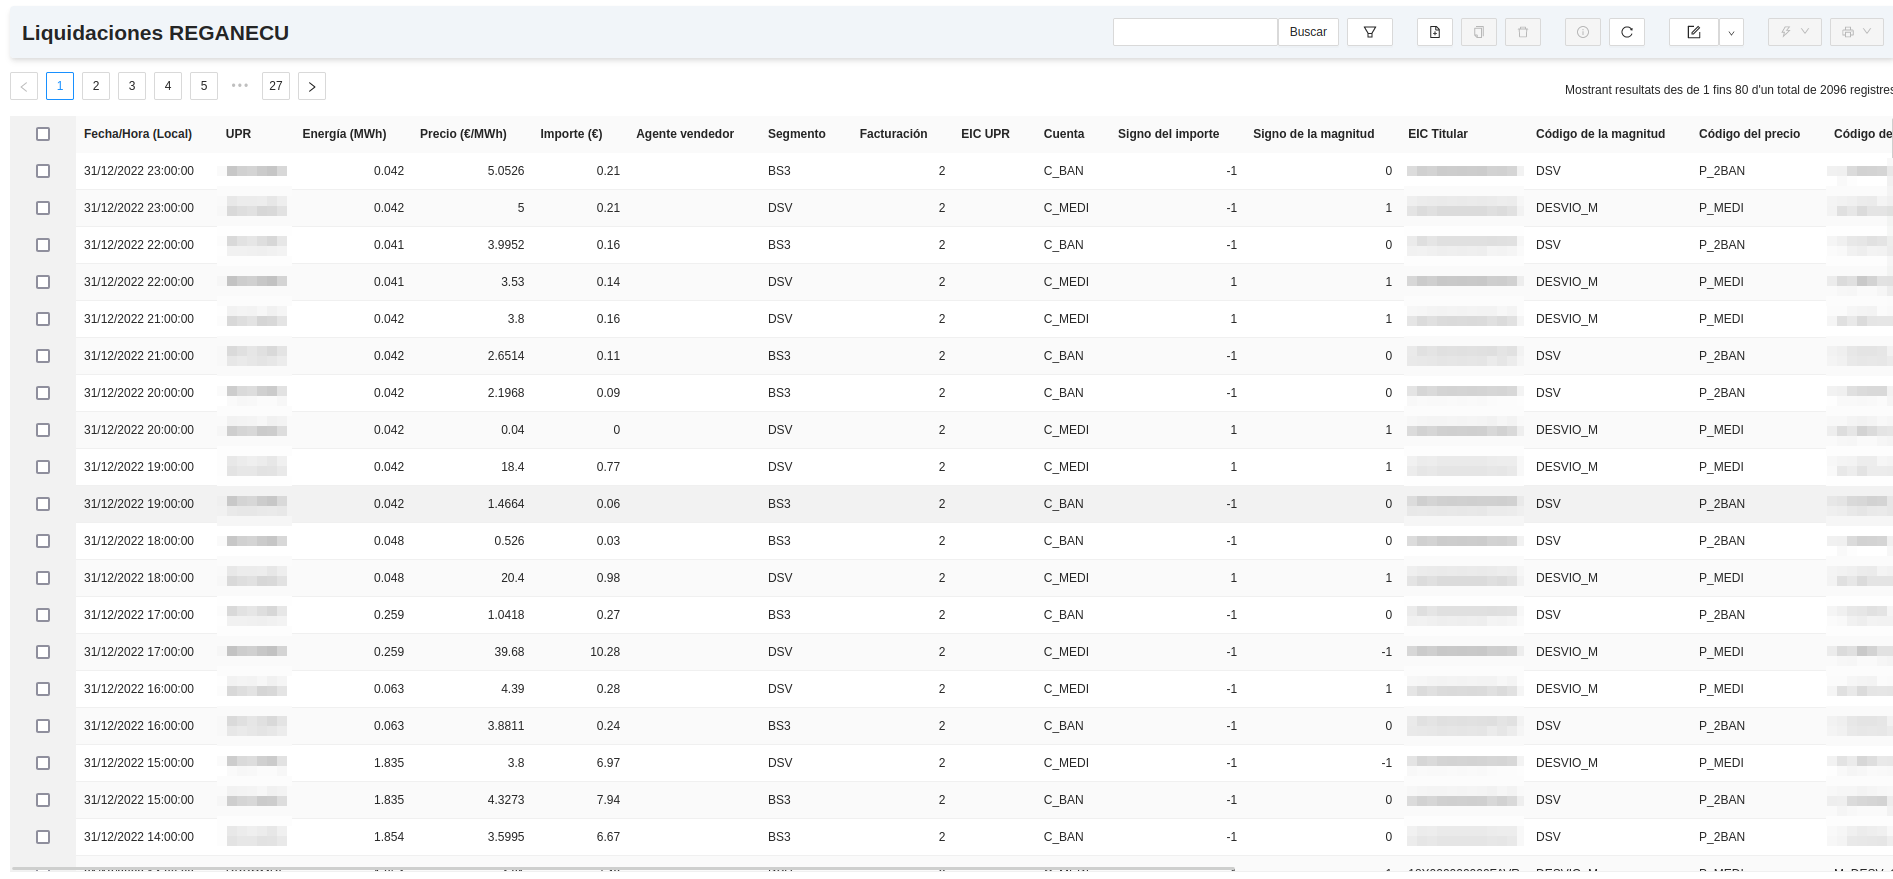
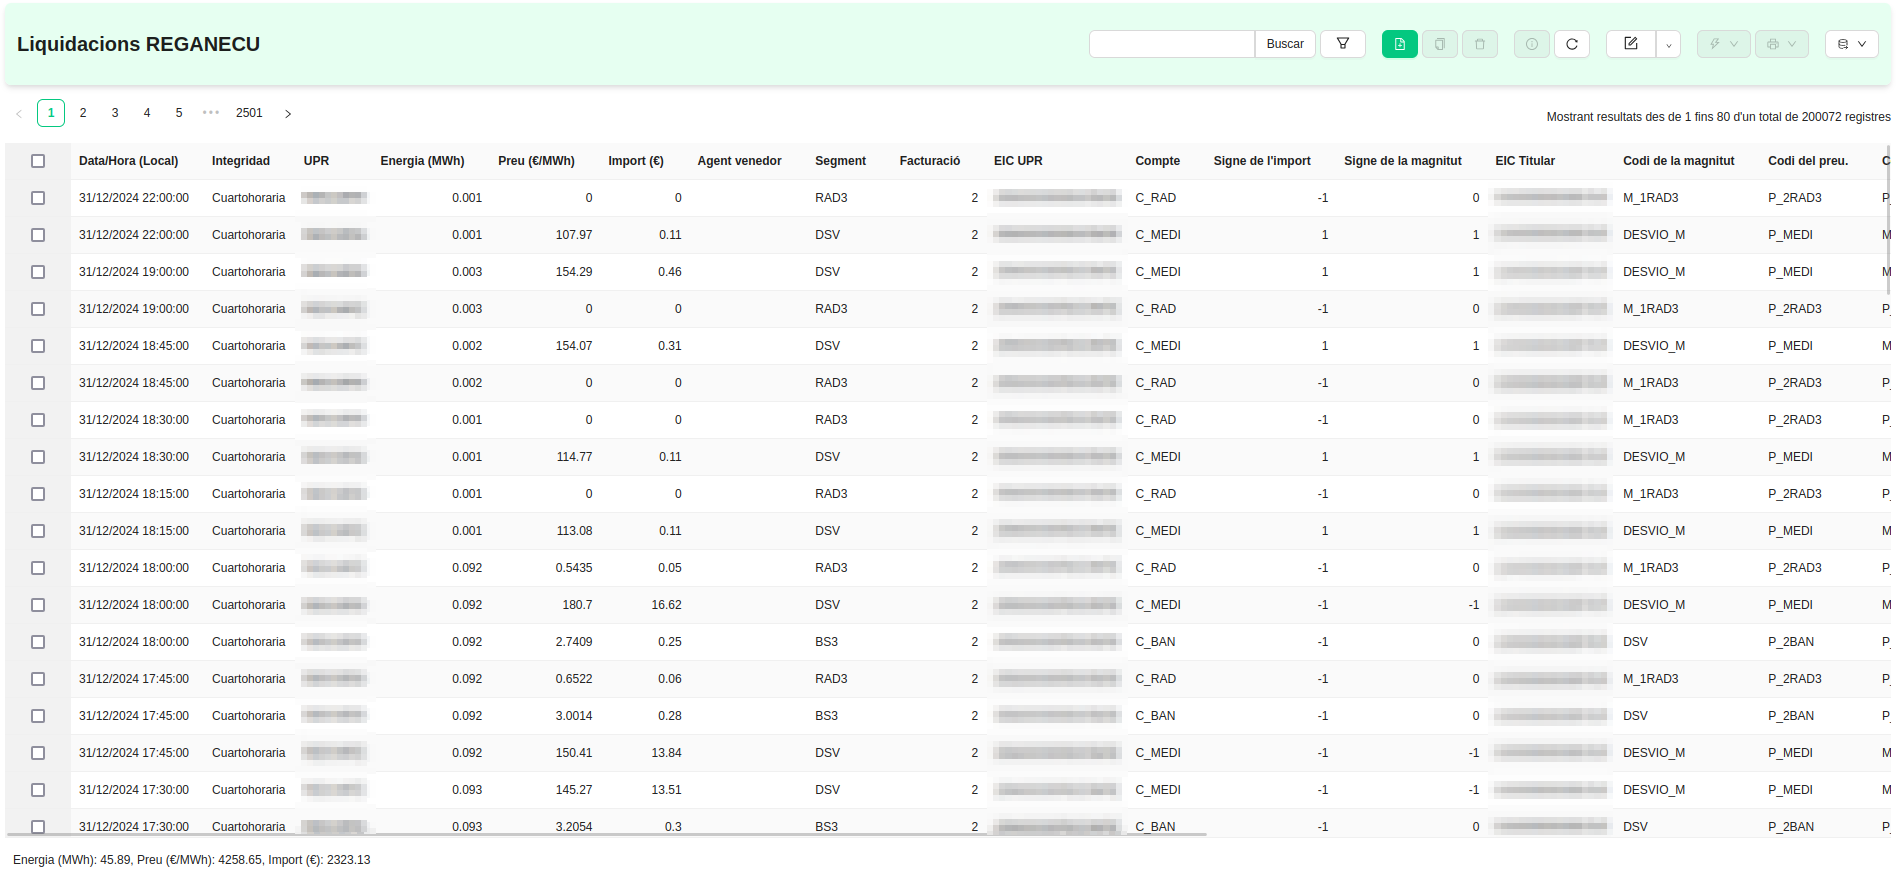
Extend CIL section

diff --git a/docs/representacion/cils.md b/docs/representacion/cils.md
@@ -45,7 +45,35 @@ publicada als fitxers `MHCIL`. Per entendre bé la funció dels desviaments cal 
 
 [ ![Llistat de desviaments](_static/cils/desvios_listado.png)](_static/cils/desvios_listado.png)
 
-#### REGANECU
+#### MCILQH
+* **Dades quart-horàries d'energia per CIL:** Llistat per a consultar les dades de generació dels CIL, publicades per l'Operador del Sistema
+mitjançant els fitxers `MCILQH`. Si s'importen fitxers `MCILQH` a l'ERP, els seus registres quart-horaris apareixen en aquest llistat, on es
+poden filtrar per dates, CIL i/o maduresa.
+
+[ ![Llistat de registres MCILQH](_static/cils/mcilqh_listado.png)](_static/cils/mcilqh_listado.png)
+
+A cada quart d'hora del llistat s'enregistra el CIL al qual pertany la mesura, l'hora (local i UTC), la maduresa i la versió del fitxer.
+Els fitxers `MCILQH` publiquen les mesures d'energia **Activa Exportada** (expressada en kWh), **Activa Importada** (expressada en kWh)
+i d'energia **Reactiva** dels quadrants 1, 2, 3 i 4 (expressades en kVArh).
+
+[ ![Formulari de registres MCILQH](_static/cils/mcilqh_formulario.png)](_static/cils/mcilqh_formulario.png)
+
+* **Importar fitxers MCILQH:** Assistent per a importar a l'ERP fitxers de mesures de generació `MCILQH` emesos per l'Operador del Sistema. Suporta
+fitxers individuals en format de fitxer pla o bé un fitxer comprimit en ZIP amb múltiples fitxers en format fitxer pla.
+
+[ ![Importació de fitxers MCILQH](_static/cils/mcilqh_importacion.png)](_static/cils/mcilqh_importacion.png)
+
+!!! Info "Nota"
+    L'Operador del Sistema va començar a publicar la generació als Representants amb fitxers MCILQH a partir de l'1 de desembre
+    de 2024, passant a imputar la generació i el desviament en format quart-horari enlloc de horari.
+
+* **Desviaments:** Llistat per a consultar quant s'ha desviat la previsió de generació de les instal·lacions de la seva generació real,
+publicada als fitxers `MCILQH`. Per entendre bé la funció dels desviaments cal consultar els apartats [Ofertes a Mercat de generació](../ofertas) i
+[Facturació](../facturacion).
+
+[ ![Llistat de desviaments](_static/cils/desvios_listado.png)](_static/cils/desvios_listado.png)
+
+#### REGANECU/REGANECUQH
 * **Liquidacions:** Llistat per a consultar les liquidacions de l'Operador del Sistema, publicades mitjançant els fitxers `REGANECU`. Si
 s'importen fitxers `REGANECU` a l'ERP, els seus registres apareixen en aquest llistat, on es poden filtrar per dates, Unitat de Programació,
 segment i/o maduresa
@@ -60,3 +88,8 @@ A cada línia de fitxer `REGANECU` importada es poden consultar tots els camps q
 fitxers individuals en format de fitxer pla o bé un fitxer comprimit en ZIP amb múltiples fitxers en format fitxer pla.
 
 [ ![Importació de fitxers REGANECU](_static/cils/reganecu_importacion.png)](_static/cils/reganecu_importacion.png)
+
+!!! Info "Nota"
+    Des de novembre de 2024, l'Operador del Sistema publica als participants es liquidacions mitjançant fitxers `REGANECUQH`. Aquests
+    fitxers s'importen amb el mateix assistent que els fitxers `REGANECU` i els registres es guarden a la mateixa col·lecció. Per a poder
+    distingir els registres horaris dels quart-horaris, es pot filtrar pel camp 
